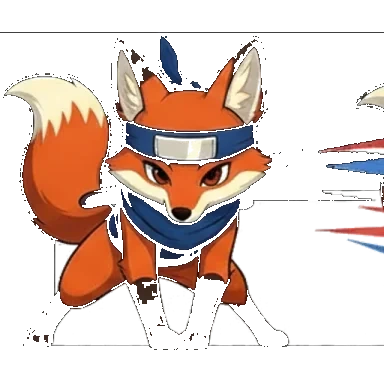
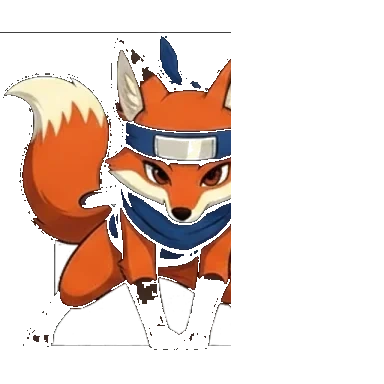
fix(pets): Gauntlet uses clean pose cutouts everywhere (recruit, placement, board)
Root cause of the boxed/see-through/washed pets: the gauntlet resolved art via
petCardImage, which prefers a published pet:/petbody: portrait — and in the live
game those carry opaque backgrounds, so they boxed. The placement grid + recruit
cards also ran a mixBlendMode:"screen" hack that washed dark pets into a "broken"
look.

Fix (matches the Pet Coliseum, simpler):
- New petPoseImage() resolver: returns the clean transparent idle POSE cutout
  first (the exact art the Coliseum standees use), only falling back to
  petCardImage when a pet has no pose. Used by the board, the placement grid (you
  + enemy preview), and the recruit cards — one consistent source.
- Dropped the mixBlendMode:"screen" hack from those <img>s — clean poses render at
  full opacity (no more ghostly/washed dark pets). Removed the board's bespoke
  boardSpriteUrl in favour of the shared resolver.
- Red Fox idle pose had a stray attack-VFX streak baked into the right edge;
  cleared it (detached from the fox, so the fox is untouched).

Verified in the harness: every gauntlet pet image now resolves to
/pet-poses/<id>-idle.webp and zero <img>s use screen blend.

tsc + lint clean; 32 board/gauntlet tests green. Client-only — Railway rebuilds.

diff --git a/shinobij.client/src/components/PetGauntlet.tsx b/shinobij.client/src/components/PetGauntlet.tsx
@@ -23,7 +23,7 @@ import {
 } from "../lib/pet-gauntlet";
 import { startGauntlet, reportGauntlet, type GauntletReward } from "../lib/pet-gauntlet-api";
 import { resolveSynergies, applySynergiesToSquad } from "../lib/pet-synergies";
-import { petCardImage } from "../lib/pet-battle-anim";
+import { petPoseImage } from "../lib/pet-battle-anim";
 import { ROLE_META, derivePetRole, type PetRole } from "../lib/pet-roles";
 import { PetBoardArena } from "./PetBoardArena";
 import gauntletHero from "../assets/coliseum/gauntlet-hero.webp";
@@ -59,7 +59,7 @@ function PetMiniCard({ pet, footer }: { pet: Pet; footer?: React.ReactNode }) {
     const role = roleOf(pet);
     return (
         <div style={{ border: `1px solid ${elColor(pet.element)}66`, borderRadius: 10, background: "rgba(15,23,42,0.6)", padding: "8px 10px", minWidth: 132 }}>
-            {(() => { const img = petCardImage(pet); return img ? <img src={img} alt="" style={{ display: "block", width: "100%", height: 70, objectFit: "contain", marginBottom: 4, mixBlendMode: "screen", filter: "drop-shadow(0 3px 5px rgba(0,0,0,0.5))" }} /> : null; })()}
+            {(() => { const img = petPoseImage(pet); return img ? <img src={img} alt="" style={{ display: "block", width: "100%", height: 70, objectFit: "contain", marginBottom: 4, filter: "drop-shadow(0 3px 5px rgba(0,0,0,0.5))" }} /> : null; })()}
             <div style={{ display: "flex", justifyContent: "space-between", alignItems: "center", gap: 6 }}>
                 <strong style={{ fontSize: "0.86rem", color: "#e2e8f0" }}>{pet.name}</strong>
                 <span title={ROLE_META[role].label} style={{ fontSize: "0.92rem" }}>{ROLE_META[role].icon}</span>
@@ -280,10 +280,10 @@ export function PetGauntlet({ sharedImages = {}, character, updateCharacter }: {
                                                     if (gr < BOARD_ROWS_PER_SIDE) {
                                                         // Enemy half (top): front toward centre = bottom of this block.
                                                         const eu = enemyPreview.find((u) => u.row === (BOARD_ROWS_PER_SIDE - 1 - gr) && u.col === c);
-                                                        const eimg = eu ? petCardImage(eu.pet) : "";
+                                                        const eimg = eu ? petPoseImage(eu.pet) : "";
                                                         return (
                                                             <div key={`e${gr}-${c}`} style={{ aspectRatio: "1", borderRadius: 6, border: "1px solid rgba(220,90,90,0.26)", background: "rgba(80,25,25,0.22)", position: "relative", display: "grid", placeItems: "center", opacity: 0.72 }}>
-                                                                {eu && eimg ? <img src={eimg} alt="" draggable={false} style={{ maxWidth: "100%", maxHeight: "82%", objectFit: "contain", mixBlendMode: "screen", transform: "scaleX(-1)" }} /> : null}
+                                                                {eu && eimg ? <img src={eimg} alt="" draggable={false} style={{ maxWidth: "100%", maxHeight: "82%", objectFit: "contain", transform: "scaleX(-1)" }} /> : null}
                                                             </div>
                                                         );
                                                     }
@@ -291,11 +291,11 @@ export function PetGauntlet({ sharedImages = {}, character, updateCharacter }: {
                                                     const pRow = gr - BOARD_ROWS_PER_SIDE;
                                                     const pet = run.roster.find((p) => placement[p.id]?.row === pRow && placement[p.id]?.col === c) ?? null;
                                                     const sel = !!pet && selId === pet.id;
-                                                    const img = pet ? petCardImage(pet) : "";
+                                                    const img = pet ? petPoseImage(pet) : "";
                                                     return (
                                                         <button key={`p${gr}-${c}`} type="button" onClick={() => clickCell(pRow, c)} title={pRow === 0 ? "Front line" : pRow === BOARD_ROWS_PER_SIDE - 1 ? "Back line" : "Mid line"}
                                                             style={{ aspectRatio: "1", borderRadius: 6, border: `1px solid ${sel ? "#facc15" : "rgba(96,165,250,0.42)"}`, background: pet ? "rgba(15,23,42,0.5)" : "rgba(30,52,82,0.3)", cursor: "pointer", padding: 2, position: "relative", display: "grid", placeItems: "center", boxShadow: sel ? "0 0 10px rgba(250,204,21,0.7)" : "none" }}>
-                                                            {pet && img ? <img src={img} alt={pet.name} draggable={false} style={{ maxWidth: "100%", maxHeight: "82%", objectFit: "contain", mixBlendMode: "screen" }} /> : null}
+                                                            {pet && img ? <img src={img} alt={pet.name} draggable={false} style={{ maxWidth: "100%", maxHeight: "82%", objectFit: "contain" }} /> : null}
                                                             {pet && <span style={{ position: "absolute", bottom: 1, right: 3, fontSize: "0.58rem", color: elColor(pet.element) }}>{ROLE_META[roleOf(pet)].icon}</span>}
                                                         </button>
                                                     );

diff --git a/shinobij.client/src/components/PetBoardArena.tsx b/shinobij.client/src/components/PetBoardArena.tsx
@@ -16,9 +16,7 @@ import { Canvas, useFrame } from "@react-three/fiber";
 import { Billboard } from "@react-three/drei";
 import type { BoardResult } from "../lib/pet-board-sim";
 import { BOARD_COLS } from "../lib/pet-board-sim";
-import { petCardImage, petStripVariant, elementVfxKey } from "../lib/pet-battle-anim";
-import { POSED_PET_IDS } from "../assets/coliseum/pet-poses-manifest";
-import type { Pet } from "../types/pet";
+import { petPoseImage, elementVfxKey } from "../lib/pet-battle-anim";
 import { bundledJutsuFxFrames } from "../lib/jutsu-fx-assets";
 import gauntletHero from "../assets/coliseum/gauntlet-hero.webp";
 import gauntletBoard from "../assets/coliseum/gauntlet-board.webp";
@@ -65,17 +63,6 @@ function orbTex(): THREE.Texture {
     g.fillStyle = grd; g.fillRect(0, 0, 64, 64);
     _orb = new THREE.CanvasTexture(c); _orb.colorSpace = THREE.SRGBColorSpace; return _orb;
 }
-// Board sprite source — mirror the Pet Coliseum: the clean idle POSE cutout wins
-// (transparent, billboard-ready), and only pets with no generated pose fall back
-// to petCardImage (which can return a card portrait WITH a background, the box the
-// board used to show). Keyed by the pet's id, then the variant-stripped base id.
-function boardSpriteUrl(pet: Pet, sharedImages: Record<string, string>): string {
-    if (POSED_PET_IDS.has(pet.id)) return `/pet-poses/${pet.id}-idle.webp`;
-    const base = petStripVariant(pet.id);
-    if (POSED_PET_IDS.has(base)) return `/pet-poses/${base}-idle.webp`;
-    return petCardImage(pet, sharedImages);
-}
-
 type Vec3 = [number, number, number];
 
 function BoardProjectile({ from, to, color, onArrive }: { from: Vec3; to: Vec3; color: string; onArrive: () => void }) {
@@ -237,7 +224,7 @@ export function PetBoardArena({ result, sharedImages = {}, onDone }: { result: B
         let live = true;
         const loader = new THREE.TextureLoader();
         for (const u of result.roster) {
-            const url = boardSpriteUrl(u.pet, sharedImages);
+            const url = petPoseImage(u.pet, sharedImages);
             if (!url) continue;
             loader.load(url, (t) => { t.colorSpace = THREE.SRGBColorSpace; if (live) setTexMap((prev) => new Map(prev).set(u.id, t)); });
         }

diff --git a/shinobij.client/src/lib/pet-battle-anim.ts b/shinobij.client/src/lib/pet-battle-anim.ts
@@ -169,6 +169,23 @@ export function petCardImage(
     return "";
 }
 
+/**
+ * POSE-FIRST image resolver for billboard-style renderers (the Pet Gauntlet board,
+ * its placement grid, and its recruit cards). Unlike petCardImage — which prefers
+ * a published `pet:`/`petbody:` portrait that may carry an opaque background — this
+ * returns the clean transparent idle POSE cutout first (the exact art the Pet
+ * Coliseum standees use), so dark backgrounds never box the sprite. Falls back to
+ * petCardImage only when a pet has no generated pose. Pure.
+ */
+export function petPoseImage(pet: Pet, sharedImages: Record<string, string> = {}): string {
+    const visualId = petVisualId(pet);
+    if (POSED_PET_IDS.has(visualId)) return `/pet-poses/${visualId}-idle.webp`;
+    if (POSED_PET_IDS.has(pet.id)) return `/pet-poses/${pet.id}-idle.webp`;
+    const baseId = petStripVariant(pet.id);
+    if (POSED_PET_IDS.has(baseId)) return `/pet-poses/${baseId}-idle.webp`;
+    return petCardImage(pet, sharedImages);
+}
+
 /** Map a pet's chakra element to its VFX tint. */
 export function elementVfxKey(element?: JutsuElement | string | null): PetVfxKey {
     switch (String(element ?? "").toLowerCase()) {
